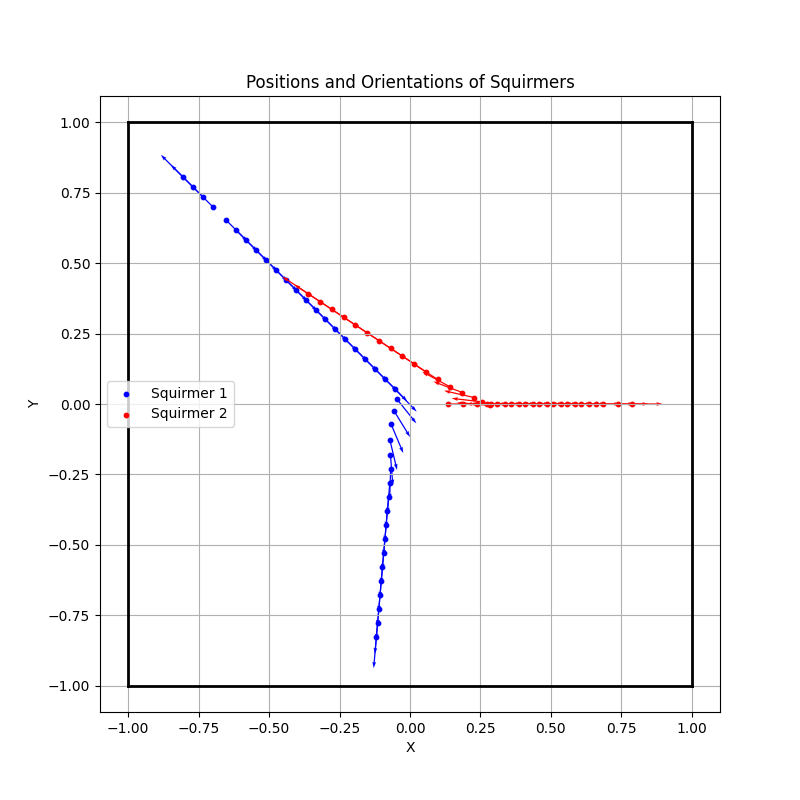
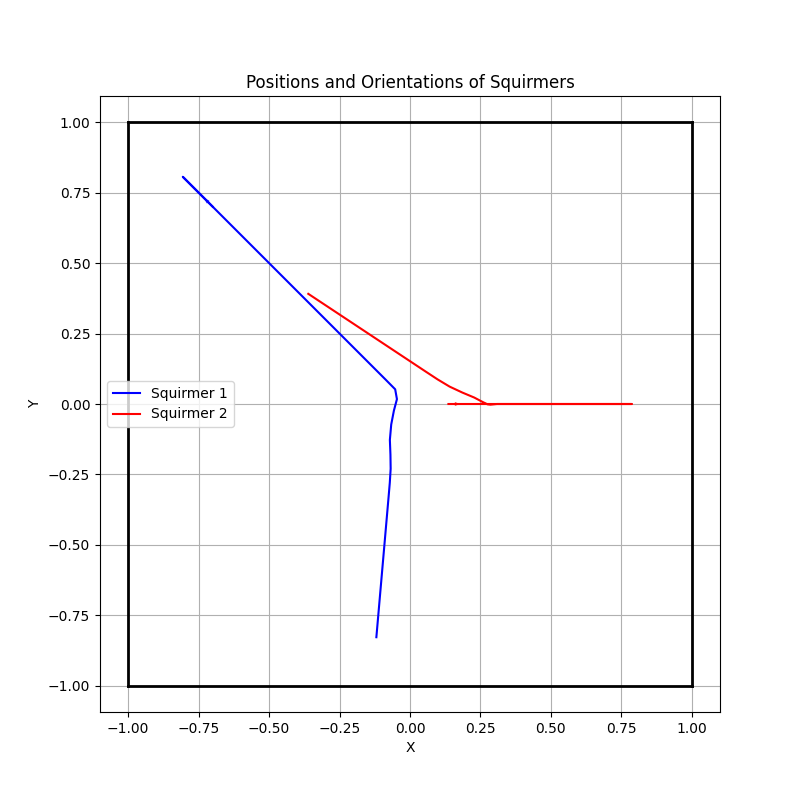
Added new plot function

diff --git a/Code/run.py b/Code/run.py
@@ -1,16 +1,65 @@
 import numpy as np
+import matplotlib
+matplotlib.use('Agg')
+import matplotlib.pyplot as plt
+import os
 from squirmer import Squirmer
 from interactingsquirmers import InteractingSquirmers
+
+def plot_3squirmers(R, historyb0, historybinf, historybsup, filename, dir='graphs'):
+    #Plot 3 squirmers with the same initial orientation but with different beta
+    plt.figure(figsize=(8, 8))
+    plt.plot([-R, R], [-R, -R], 'k-', linewidth=2)
+    plt.plot([-R, R], [R, R], 'k-', linewidth=2)
+    plt.plot([-R, -R], [-R, R], 'k-', linewidth=2)
+    plt.plot([R, R], [-R, R], 'k-', linewidth=2)
+
+    histories = [(historyb0, 'beta=0'), (historybinf, 'beta<0'), (historybsup, 'beta>0')]
+    colors = ['blue', 'green', 'red']
+
+    for history, label in zip(histories, colors):
+        squirmer1_x, squirmer1_y, squirmer1_orient = [], [], []
+        squirmer2_x, squirmer2_y, squirmer2_orient = [], [], []
+
+        for step in history[0]:
+            squirmer1_x.append(step[0])
+            squirmer1_y.append(step[1])
+            squirmer1_orient.append(step[4])
+            squirmer2_x.append(step[2])
+            squirmer2_y.append(step[3])
+            squirmer2_orient.append(step[5])
+        
+        plt.plot(squirmer1_x, squirmer1_y, label=f'Squirmer1 {history[1]}', color=label)
+        plt.plot(squirmer2_x, squirmer2_y, label=f'Squirmer2 {history[1]}', color=label)
+
+    #Plot initial orientations
+    plt.quiver(squirmer2_x[0], squirmer2_y[0], np.cos(squirmer2_orient[0]), np.sin(squirmer2_orient[0]), color='black', scale=50, width=0.002)
+    plt.quiver(squirmer1_x[0], squirmer1_y[0], np.cos(squirmer1_orient[0]), np.sin(squirmer1_orient[0]), color='black', scale=50, width=0.002)
+
+    plt.axis('equal')
+    plt.xlabel('X')
+    plt.ylabel('Y')
+    plt.title('Positions and Orientations of Squirmers')
+    plt.legend()
+    plt.grid(True)
+
+    if not os.path.exists(dir):
+        os.makedirs(dir)
+    save_path = os.path.join(dir, filename + '.png')
+    plt.savefig(save_path)
+    plt.close()
 
 # Define parameters
 v0 = 1
 L = 2
 R = L/2
 a = 0.15
-x1, y1 = -0.7, 0.7
+x1, y1 = -a/1.1, 0
 x2, y2 = a/1.1, 0
-orient1, orient2 = 3*np.pi/4, 0
-beta = 0
+orient1, orient2 = np.pi/2, np.pi/2
+beta0 = 0
+betainf = -7.5
+betasup = 7.5
 dt = 1e-4
 lnEps_cr = np.exp(-5)
 Es = 1
@@ -20,9 +69,22 @@ Eo = ((3./10.)*v0/a)
 ds = 2**(7./6)*a
 mu = 0.01
 
-squirmer1 = Squirmer(x1, y1, orient1, a, beta, v0)
-squirmer2 = Squirmer(x2, y2, orient2, a, beta, v0)
+squirmer1b0 = Squirmer(x1, y1, orient1, a, beta0, v0)
+squirmer2b0 = Squirmer(x2, y2, orient2, a, beta0, v0)
 
-interact_sq = InteractingSquirmers(squirmer1, squirmer2, R, dt, dt_out, T, Es, ds, mu, Eo, lnEps_cr)
-interact_sq.run("bordertest", "bordertest", "dist_bord_test")
-     
+squirmer1binf = Squirmer(x1, y1, orient1, a, betainf, v0)
+squirmer2binf = Squirmer(x2, y2, orient2, a, betainf, v0)
+
+squirmer1bsup = Squirmer(x1, y1, orient1, a, betasup, v0)
+squirmer2bsup = Squirmer(x2, y2, orient2, a, betasup, v0)
+
+interact_sqb0 = InteractingSquirmers(squirmer1b0, squirmer2b0, R, dt, dt_out, T, Es, ds, mu, Eo, lnEps_cr)
+historyb0 = interact_sqb0.loop_time()
+
+interact_sqbinf = InteractingSquirmers(squirmer1binf, squirmer2binf, R, dt, dt_out, T, Es, ds, mu, Eo, lnEps_cr)
+historybinf = interact_sqbinf.loop_time()
+
+interact_sqbsup = InteractingSquirmers(squirmer1bsup, squirmer2bsup, R, dt, dt_out, T, Es, ds, mu, Eo, lnEps_cr)
+historybsup = interact_sqbsup.loop_time()
+
+plot_3squirmers(R, historyb0, historybinf, historybsup, "diff_betatest")

diff --git a/Code/interactingsquirmers.py b/Code/interactingsquirmers.py
@@ -1,7 +1,4 @@
 import matplotlib
-
-import copy
-import os
 import numpy as np
 import os
 matplotlib.use('Agg')
